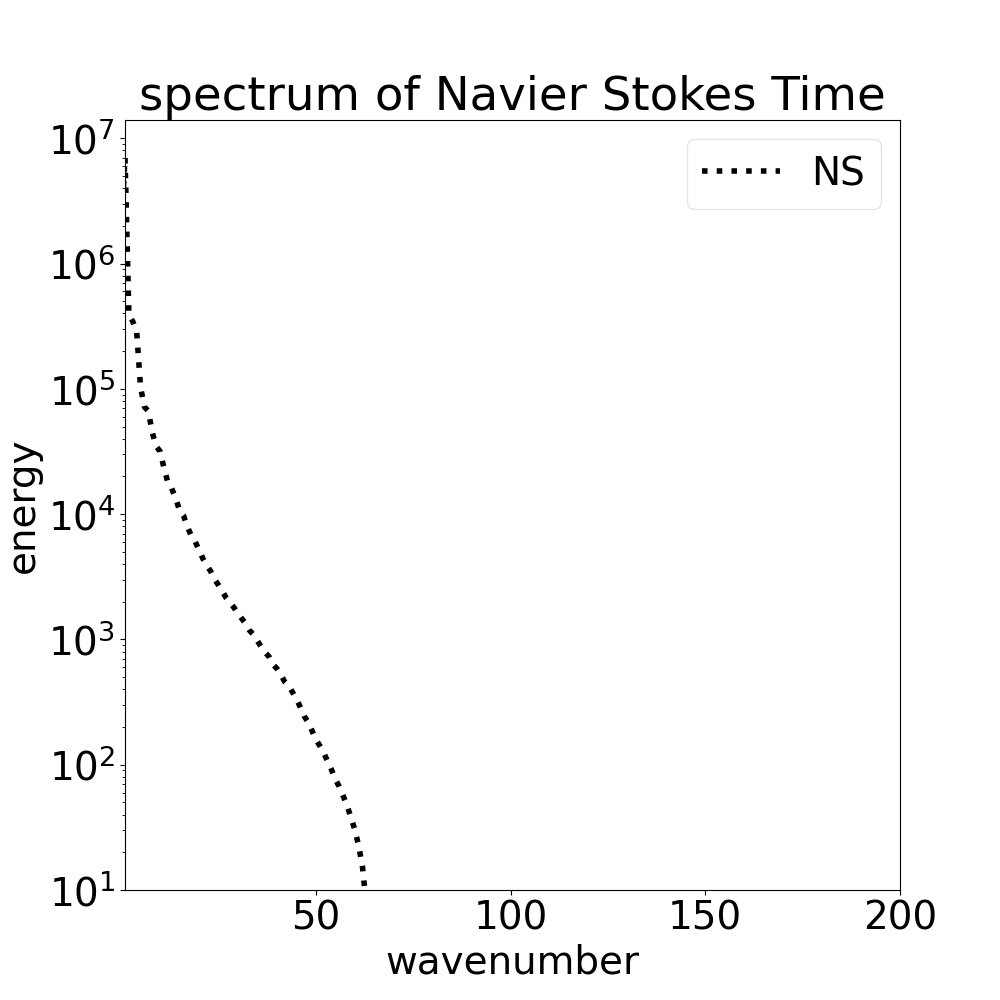
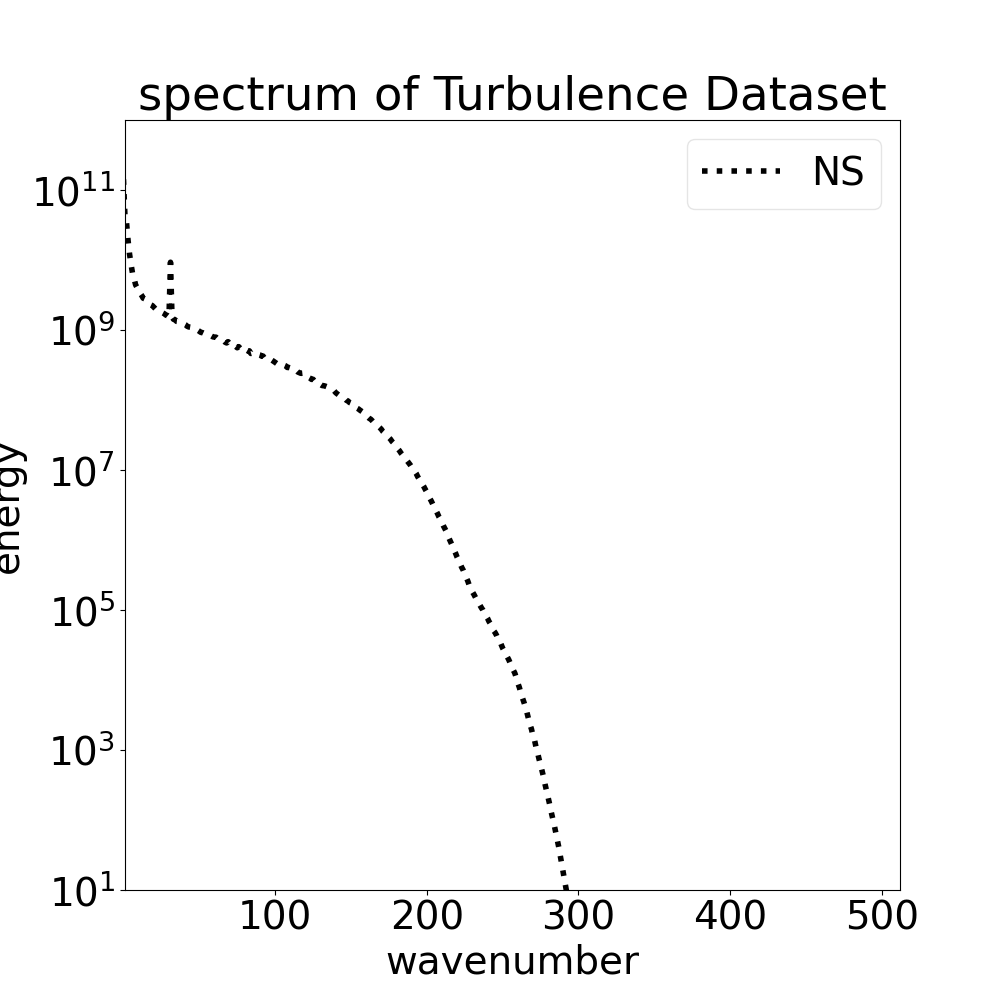
done

diff --git a/scripts/spectrum.py b/scripts/spectrum.py
@@ -20,12 +20,13 @@ from functools import partial
 
 from timeit import default_timer
 #from utilities4 import *
+import h5py
 
 torch.manual_seed(0)
 np.random.seed(0)
 
 T = 1200
-s = 64
+s = 512
 S = s
 
 Re = 5000
@@ -54,12 +55,12 @@ HOME_PATH = '../'
 # unet_truth = fno['truth'].squeeze().permute(2,0,1)
 # unet_pred = fno['pred'].squeeze().permute(2,0,1)
 
-
-fno = scipy.io.loadmat('/home/robert/data/NavierStokes_V1e-5_N1200_T20.mat')
+fno = h5py.File(str('/home/user/.julia/datadeps/Turbulence2DContext/turbulence_2d_with_context.hdf5'), 'r')
+#fno = scipy.io.loadmat('/home/robert/data/NavierStokes_V1e-5_N1200_T20.mat')
 #fno = torch.load('/home/robert/data/NavierStokes_V1e-5_N1200_T20.mat')
-print(fno['u'].shape)
-fno_truth = torch.tensor(fno['u']).squeeze().permute(0,3,1,2)
-fno_pred = torch.tensor(fno['u']).squeeze().permute(0,3,1,2)
+print(fno['512x512x2_wn16.0']['fields'].shape)
+fno_truth = torch.tensor(fno['512x512x2_wn16.0']['fields']).squeeze()
+fno_pred =  torch.tensor(fno['512x512x2_wn16.0']['fields']).squeeze()
 
 shape = fno_pred.shape
 print(shape)
@@ -144,7 +145,7 @@ frame = 64
 # unet_interp_sp = spectrum2(unet_pred_interp[0:frame+1])
 
 # pred_sp = spectrum2(pretrain_pred.reshape(50*65, 256,256))
-truth_sp = spectrum2(fno_truth.reshape(1200*20, 64, 64))
+truth_sp = spectrum2(fno_truth.reshape(2001*2, 512, 512))
 #finetune_sp = spectrum2(finetune_pred.reshape(50*65, 256,256))
 #fno_sp = spectrum2(fno_pred.reshape(50*65, 256,256))
 #unet_interp_sp = spectrum2(unet_pred_interp.reshape(50*65, 256,256))
@@ -159,7 +160,7 @@ linewidth = 3
 ax.set_yscale('log')
 # ax.set_xscale('log')
 
-length = 1024
+length = 512
 k = np.arange(length) * 1.0
 #k3 = k**-3 * 100000000000
 #k5 = k**-(5/3) * 5000000000
@@ -169,14 +170,14 @@ ax.plot(truth_sp, 'k', linestyle=":", label="NS", linewidth=4)
 # ax.plot(k, k5, 'k--',  label="k^-5/3 scaling", linewidth=linewidth)
 
 # ax.set_xlim(1,length)
-ax.set_xlim(1,200)
+ax.set_xlim(1,length)
 # ax.set_ylim(1,10000000000)
 ax.set_ylim(10, 10^10)
 # ax.set_yticks([0.05,0.10,0.15])
 #
 plt.legend(prop={'size': 20})
 # plt.title('averaged over t=[0,'+str(frame)+']' )
-plt.title('spectrum of Navier Stokes Time' )
+plt.title('spectrum of Turbulence Dataset' )
 
 plt.xlabel('wavenumber')
 plt.ylabel('energy')
